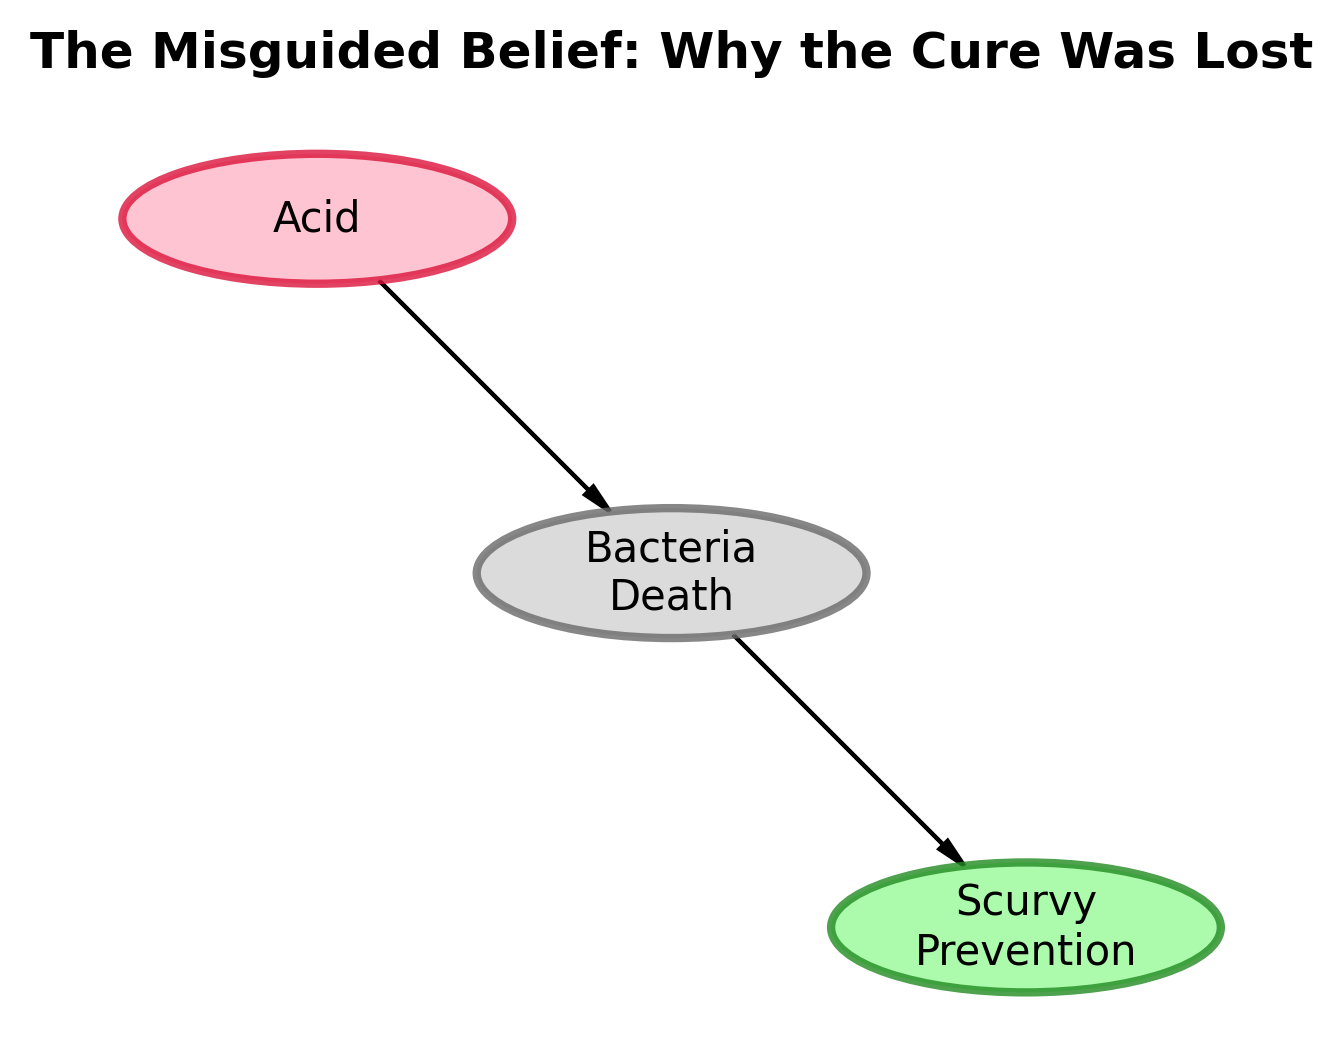
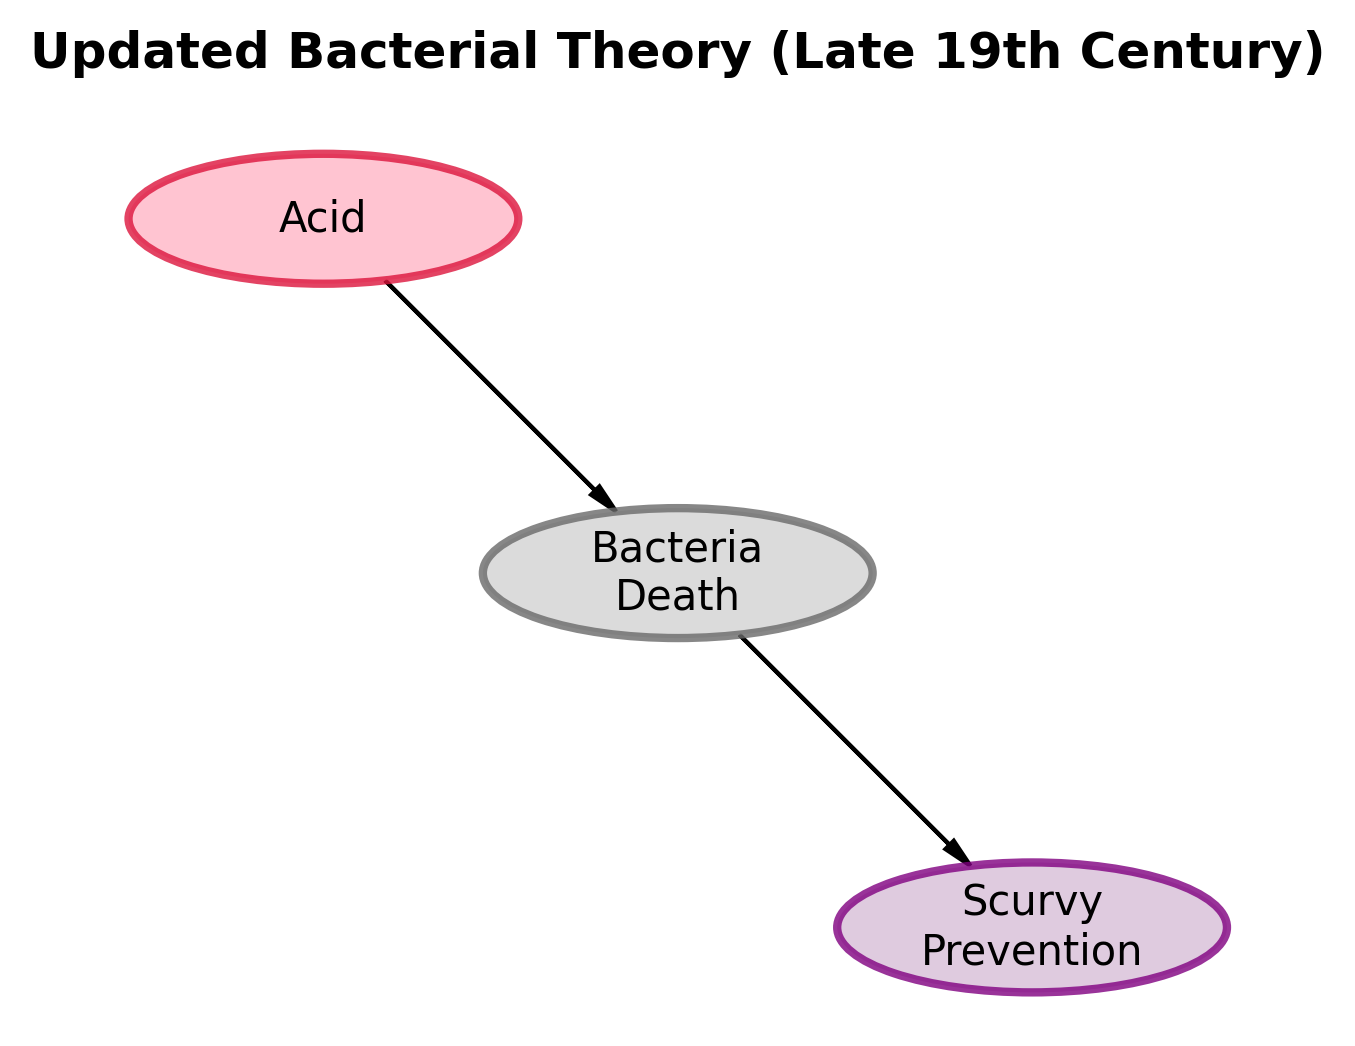
Daft challenge update4

diff --git a/index.html b/index.html
@@ -202,8 +202,6 @@ Ready to create beautiful DAGs!</code></pre>
 <section id="dag-1-the-1747-understanding-correct-but-incomplete" class="level3">
 <h3 class="anchored" data-anchor-id="dag-1-the-1747-understanding-correct-but-incomplete">DAG 1: The 1747 Understanding (Correct but Incomplete)</h3>
 <p><strong>Historical Context:</strong> In 1747, James Lind discovered that lemons prevent scurvy through a controlled experiment. However, the understanding was incomplete - they knew lemons worked but not why.</p>
-<p><strong>Your Task:</strong> Recreate this DAG showing the relationship between lemons and scurvy prevention.</p>
-<p><strong>Reference Image:</strong> <img src="https://raw.githubusercontent.com/flyaflya/persuasive/642288ea5f79050c05801c3d127084ac0f361a01/images/scurvy2.png" class="img-fluid"></p>
 <div id="dag-1-1747" class="cell" data-execution_count="2">
 <div class="code-copy-outer-scaffold"><div class="sourceCode cell-code" id="cb3"><pre class="sourceCode python code-with-copy"><code class="sourceCode python"><span id="cb3-1"><a href="#cb3-1" aria-hidden="true" tabindex="-1"></a><span class="co"># </span><span class="al">TODO</span><span class="co">: Replace this placeholder with your DAFT code</span></span>
 <span id="cb3-2"><a href="#cb3-2" aria-hidden="true" tabindex="-1"></a><span class="co"># Create a DAG showing the 1747 understanding: Lemons → Scurvy Prevention</span></span>
@@ -237,14 +235,14 @@ Ready to create beautiful DAGs!</code></pre>
 <span id="cb3-30"><a href="#cb3-30" aria-hidden="true" tabindex="-1"></a>pgm.add_edge(<span class="st">"Lemons"</span>, <span class="st">"Scurvy"</span>)</span>
 <span id="cb3-31"><a href="#cb3-31" aria-hidden="true" tabindex="-1"></a></span>
 <span id="cb3-32"><a href="#cb3-32" aria-hidden="true" tabindex="-1"></a>pgm.render()</span>
-<span id="cb3-33"><a href="#cb3-33" aria-hidden="true" tabindex="-1"></a>plt.title(<span class="st">"The 1747 Understanding (Correct but Incomplete)"</span>, fontsize<span class="op">=</span><span class="dv">12</span>, fontweight<span class="op">=</span><span class="st">'bold'</span>, pad<span class="op">=</span><span class="dv">15</span>)</span></code></pre></div><button title="Copy to Clipboard" class="code-copy-button"><i class="bi"></i></button></div>
+<span id="cb3-33"><a href="#cb3-33" aria-hidden="true" tabindex="-1"></a>plt.title(<span class="st">"Simplified Lind's Model (1747)"</span>, fontsize<span class="op">=</span><span class="dv">12</span>, fontweight<span class="op">=</span><span class="st">'bold'</span>, pad<span class="op">=</span><span class="dv">15</span>)</span></code></pre></div><button title="Copy to Clipboard" class="code-copy-button"><i class="bi"></i></button></div>
 <div id="dag-1-1747-1" class="cell-output cell-output-display" data-execution_count="2">
-<pre><code>Text(0.5, 1.0, 'The 1747 Understanding (Correct but Incomplete)')</code></pre>
+<pre><code>Text(0.5, 1.0, "Simplified Lind's Model (1747)")</code></pre>
 </div>
 <div class="cell-output cell-output-display">
 <div>
 <figure class="figure">
-<p><img src="index_files/figure-html/dag-1-1747-output-2.png" id="dag-1-1747-2" width="736" height="168" class="figure-img"></p>
+<p><img src="index_files/figure-html/dag-1-1747-output-2.png" id="dag-1-1747-2" width="514" height="168" class="figure-img"></p>
 </figure>
 </div>
 </div>
@@ -253,8 +251,6 @@ Ready to create beautiful DAGs!</code></pre>
 <section id="dag-2-the-misguided-belief-wrong-understanding" class="level3">
 <h3 class="anchored" data-anchor-id="dag-2-the-misguided-belief-wrong-understanding">DAG 2: The Misguided Belief (Wrong Understanding)</h3>
 <p><strong>Historical Context:</strong> Over time, people came to believe it was the acid in lemons that killed bacteria which was causing scurvy. This led to lemons being replaced by limes (cheaper but less Vitamin C) or just using acids like vinegar, causing scurvy to return.</p>
-<p><strong>Your Task:</strong> Recreate this DAG showing the incorrect understanding of the data generating process.</p>
-<p><strong>Reference Image:</strong> <img src="https://raw.githubusercontent.com/flyaflya/persuasive/8aaffd0a3c967d0a26f506232f998130847be3e8/images/scurvy.png" class="img-fluid"></p>
 <div id="dag-2-misguided" class="cell" data-execution_count="3">
 <div class="code-copy-outer-scaffold"><div class="sourceCode cell-code" id="cb5"><pre class="sourceCode python code-with-copy"><code class="sourceCode python"><span id="cb5-1"><a href="#cb5-1" aria-hidden="true" tabindex="-1"></a><span class="co"># Create a DAG showing the misguided belief: Acid → Bacteria Death → Scurvy Prevention</span></span>
 <span id="cb5-2"><a href="#cb5-2" aria-hidden="true" tabindex="-1"></a><span class="co"># This represents the WRONG understanding that led to scurvy's return</span></span>
@@ -286,8 +282,8 @@ Ready to create beautiful DAGs!</code></pre>
 <span id="cb5-28"><a href="#cb5-28" aria-hidden="true" tabindex="-1"></a><span class="co"># Node 3: No Scurvy (the outcome)</span></span>
 <span id="cb5-29"><a href="#cb5-29" aria-hidden="true" tabindex="-1"></a>pgm.add_node(<span class="st">"scurvy"</span>, <span class="st">"Scurvy</span><span class="ch">\n</span><span class="st">Prevention"</span>, <span class="fl">4.00</span>, <span class="op">-</span><span class="dv">2</span>, aspect <span class="op">=</span> <span class="dv">3</span>, scale <span class="op">=</span> <span class="fl">1.1</span>,</span>
 <span id="cb5-30"><a href="#cb5-30" aria-hidden="true" tabindex="-1"></a>             plot_params<span class="op">=</span>{</span>
-<span id="cb5-31"><a href="#cb5-31" aria-hidden="true" tabindex="-1"></a>                 <span class="st">'facecolor'</span>: <span class="st">'#98FB98'</span>,  <span class="co"># Pale green</span></span>
-<span id="cb5-32"><a href="#cb5-32" aria-hidden="true" tabindex="-1"></a>                 <span class="st">'edgecolor'</span>: <span class="st">'#228B22'</span>,  <span class="co"># Forest green</span></span>
+<span id="cb5-31"><a href="#cb5-31" aria-hidden="true" tabindex="-1"></a>                 <span class="st">'facecolor'</span>: <span class="st">'thistle'</span>,  </span>
+<span id="cb5-32"><a href="#cb5-32" aria-hidden="true" tabindex="-1"></a>                 <span class="st">'edgecolor'</span>: <span class="st">'purple'</span>, </span>
 <span id="cb5-33"><a href="#cb5-33" aria-hidden="true" tabindex="-1"></a>                 <span class="st">'linewidth'</span>: <span class="dv">2</span>,</span>
 <span id="cb5-34"><a href="#cb5-34" aria-hidden="true" tabindex="-1"></a>                 <span class="st">'alpha'</span>: <span class="fl">0.8</span>,</span>
 <span id="cb5-35"><a href="#cb5-35" aria-hidden="true" tabindex="-1"></a>             })</span>
@@ -299,15 +295,15 @@ Ready to create beautiful DAGs!</code></pre>
 <span id="cb5-41"><a href="#cb5-41" aria-hidden="true" tabindex="-1"></a></span>
 <span id="cb5-42"><a href="#cb5-42" aria-hidden="true" tabindex="-1"></a><span class="co"># Render the DAG</span></span>
 <span id="cb5-43"><a href="#cb5-43" aria-hidden="true" tabindex="-1"></a>pgm.render()</span>
-<span id="cb5-44"><a href="#cb5-44" aria-hidden="true" tabindex="-1"></a>plt.title(<span class="st">"The Misguided Belief: Why the Cure Was Lost"</span>, fontsize<span class="op">=</span><span class="dv">12</span>, fontweight<span class="op">=</span><span class="st">'bold'</span>, pad<span class="op">=</span><span class="dv">15</span>)</span></code></pre></div><button title="Copy to Clipboard" class="code-copy-button"><i class="bi"></i></button></div>
+<span id="cb5-44"><a href="#cb5-44" aria-hidden="true" tabindex="-1"></a>plt.title(<span class="st">"Updated Bacterial Theory (Late 19th Century)"</span>, fontsize<span class="op">=</span><span class="dv">12</span>, fontweight<span class="op">=</span><span class="st">'bold'</span>, pad<span class="op">=</span><span class="dv">15</span>)</span></code></pre></div><button title="Copy to Clipboard" class="code-copy-button"><i class="bi"></i></button></div>
 <div id="dag-2-misguided-1" class="cell-output cell-output-display" data-execution_count="3">
-<pre><code>Text(0.5, 1.0, 'The Misguided Belief: Why the Cure Was Lost')</code></pre>
+<pre><code>Text(0.5, 1.0, 'Updated Bacterial Theory (Late 19th Century)')</code></pre>
 <p>DAG 2: The Misguided Belief - Acid kills bacteria (INCORRECT understanding that led to scurvy’s return)</p>
 </div>
 <div class="cell-output cell-output-display">
 <div>
 <figure class="figure">
-<p><img src="index_files/figure-html/dag-2-misguided-output-2.png" id="dag-2-misguided-2" width="671" height="523" class="figure-img"></p>
+<p><img src="index_files/figure-html/dag-2-misguided-output-2.png" id="dag-2-misguided-2" width="677" height="523" class="figure-img"></p>
 </figure>
 </div>
 </div>
@@ -316,8 +312,6 @@ Ready to create beautiful DAGs!</code></pre>
 <section id="dag-3-the-1928-understanding-complete-and-correct" class="level3">
 <h3 class="anchored" data-anchor-id="dag-3-the-1928-understanding-complete-and-correct">DAG 3: The 1928 Understanding (Complete and Correct)</h3>
 <p><strong>Historical Context:</strong> In 1928, the true mechanism was discovered - it was Vitamin C (ascorbic acid) that prevented scurvy. This complete understanding finally explained why lemons worked and why the acid theory was wrong.</p>
-<p><strong>Your Task:</strong> Recreate this DAG showing the complete and correct understanding of the scurvy data generating process.</p>
-<p><strong>Reference Image:</strong> <img src="https://raw.githubusercontent.com/flyaflya/persuasive/main/images/scurvy3.png" class="img-fluid"></p>
 <div id="dag-3-1928" class="cell" data-execution_count="4">
 <div class="code-copy-outer-scaffold"><div class="sourceCode cell-code" id="cb7"><pre class="sourceCode python code-with-copy"><code class="sourceCode python"><span id="cb7-1"><a href="#cb7-1" aria-hidden="true" tabindex="-1"></a><span class="co"># </span><span class="al">TODO</span><span class="co">: Replace this placeholder with your DAFT code</span></span>
 <span id="cb7-2"><a href="#cb7-2" aria-hidden="true" tabindex="-1"></a><span class="co"># Create a DAG showing the 1928 understanding: Vitamin C → Scurvy Prevention</span></span>
